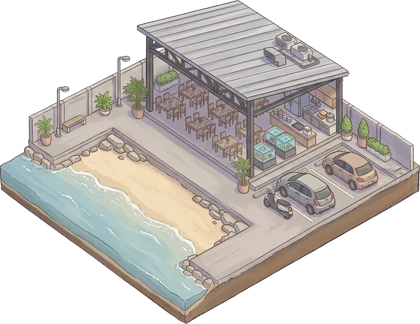
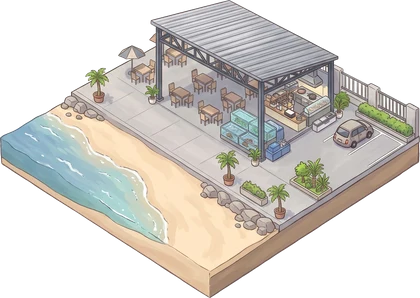
ภาพช่องเขตท่องเที่ยว + เขตชุมชน ครบวงนอก (P014–P021 แผ่นพื้นจัตุรัส)
Claude-Session: https://claude.ai/code/session_017ecwtzVhECjgSLPNri2CTQ

diff --git a/index.html b/index.html
@@ -2420,8 +2420,8 @@ function cellBody(k){const q=SQ(k),pr=S.props[k];
 function cellInfo(k){if(MODAL)return;ask({title:esc(SQ(k).n),body:cellBody(k)})}
 let MAPMIN=false;try{MAPMIN=localStorage.getItem('ff-mapmin')==='1'}catch(e){}
 /* ภาพประจำช่องที่ดิน (img/prop-<รหัสช่อง>.webp) — ใส่รหัสช่องที่มีภาพแล้ว */
-const PROPIMG={o1:46.6,o3:50.3,o4:45.8,o6:39.7,o8:46.6,o11:44.4,o13:47.4,o14:47.2,o16:47.2,o18:64.5,o21:49.2,o23:50.6,o24:50.6,o26:47.7,o28:47.7};/* ค่า = จุดกึ่งกลางพื้นข้าวหลามตัดของภาพ (% จากบน) ใช้วางภาพ isometric ให้ตรงกลางช่อง */
-const PROPR={o11:.603,o13:.603,o14:.603,o16:.603,o18:.603,o21:.603,o23:.603,o24:.603,o26:.603,o28:.603},TILE_ROAD={c:44,r:.603};/* r = สัดส่วนสูง/กว้างของพื้นข้าวหลามตัดในภาพ (ภาพเกษตรชุดแรก .766) — ภาพทุกภาพถูกยืดให้ตรงกับมุมกล้องเดียวกัน */
+const PROPIMG={o1:46.6,o3:50.3,o4:45.8,o6:39.7,o8:46.6,o11:44.4,o13:47.4,o14:47.2,o16:47.2,o18:64.5,o21:49.2,o23:50.6,o24:45.8,o26:46.5,o28:48.6,o31:48.2,o33:47.0,o34:49.4,o36:53.6,o38:47.4};/* ค่า = จุดกึ่งกลางพื้นข้าวหลามตัดของภาพ (% จากบน) ใช้วางภาพ isometric ให้ตรงกลางช่อง */
+const PROPR={o11:.603,o13:.603,o14:.603,o16:.603,o18:.603,o21:.603,o23:.603,o24:.603,o26:.603,o28:.603,o31:.603,o33:.603,o34:.603,o36:.603,o38:.603},TILE_ROAD={c:44,r:.603};/* r = สัดส่วนสูง/กว้างของพื้นข้าวหลามตัดในภาพ (ภาพเกษตรชุดแรก .766) — ภาพทุกภาพถูกยืดให้ตรงกับมุมกล้องเดียวกัน */
 function tileSty(k,c,r){let d=0;try{const q=cellPos(k);d=q[0]+q[1]}catch(e){}const sd=Math.floor(+k.slice(1)/(RING_LEN[k[0]]/4))%4;return `--b:${c}%;--s:${(1/r).toFixed(4)};--m:${sd%2?-1:1};--d:${d}`}
 const TILE_BASE_ON=true;/* พื้นหญ้าเปล่า (P001) ใต้ช่องวงนอกที่ยังไม่มีภาพของตัวเอง */
 function tileBase(k){return TILE_BASE_ON&&k[0]==='o'&&!(k in PROPIMG)?`<img class="zimg pimgc tbase" style="${tileSty(k,TILE_ROAD.c,TILE_ROAD.r)}" src="img/tile-grass.webp" alt="">`:''}

diff --git a/graphify.md b/graphify.md
@@ -267,3 +267,4 @@ flowchart LR
 | 2026-11-15 | Claude (แก๊ง) | P012-v2 (o21): ลบเสาไฟ 2 ต้น + สายไฟ ด้วยการคัดลอกรั้ว/หญ้าข้างเคียงทับ (cv2 clone + inpaint) · ไฟล์ต้นฉบับที่แก้แล้ว outputs/P012-v2-nopole.png |
 | 2026-11-15 | Claude (แก๊ง) | ภาพช่อง P013-v2 โฮมสเตย์ → o23 (c 50.6) · P014-v3 ซีฟู้ดริมทะเล → o24 (c 50.6) · ลบเสาไฟ/สายไฟ (`shots/nopole.py` + clone) · P014 ภาพมาเอียง (มุมซ้ายต่ำกว่าขวา) แก้ด้วยการเฉือนแนวตั้ง y+=0.081x ให้มุมซ้าย-ขวาเท่ากัน (เส้นตั้งยังตรง) |
 | 2026-11-15 | Claude (แก๊ง) | ภาพช่อง P015-v3 ท่าเรือนำเที่ยว → o26 (c 47.7, ลบเสาไฟ) · P016-v3 รีสอร์ตริมทะเล → o28 (c 47.7) · ทั้งคู่ภาพมาเอียง แก้ด้วย `shots/level.py` · เขตท่องเที่ยวครบ 5 ช่อง |
+| 2026-11-15 | Claude (แก๊ง) | ภาพช่อง P014–P016-v4 (o24 o26 o28 แทนภาพผืนผ้าเดิม) + P017–P020-v4 (o31 o33 o34 o36) + P021-v6 ปั๊ม (o38) — เจนแบบแนบภาพ P001 เป็นแม่แบบ แผ่นพื้นจัตุรัสทุกภาพ ไม่ต้องดัด · ค่า c คิดจากมุมล่างของแผ่นพื้น − ความหนา 27px (กว้าง 420) · **ภาพที่ดินวงนอกครบ 20 ช่อง** |
